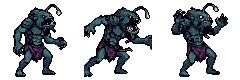
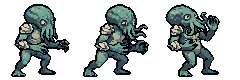
V3 R291: piscodemon monster_small approved (pass V redesign, with nits); retire.py --move-rig piscodemon

diff --git a/docs/ROSTER_LOG.md b/docs/ROSTER_LOG.md
@@ -678,7 +678,7 @@ number). Written as a literal into `budget.json` `attempts_before`, `pass R fix.
 pinned by `selftest_passv.py`. Pass V: 50 images, only the 7 redesigned ids and their `only_sheets`, at most 3 per
 sheet (fresh counts from 367).
 
-Images used: 1 of 50 (ledger guard: 368 - 367).
+Images used: 2 of 50 (ledger guard: 369 - 367).
 
 ### Pass V attempts (V3, generator, main checkout `roster`)
 
@@ -689,6 +689,7 @@ approval commit.
 | # | Sheet (seed) | n | Measured result | Decision |
 |---|---|---|---|---|
 | R290 | crazy_horse/monster_large (1234, key `8bc875977bdf6a8fbe2280ad`, `--retry`, pass-V attempt 1 of 3; archive 04c0539) | 1 | The plan 3.1 design: a gaunt ash-grey horse, a ridge of bone spines on neck and back, yellow-green glowing cracks (dim in the idle, flaring in the hurt), a long narrow skull-like head with one bright yellow-green eye spot, a black smoke mane and tail, thin legs, dark hooves; facing right in every cell. Heights 90 / 69 / 91 (large band 96-120; idle inside the -10 % tolerance), feet on row 122, 128 px cells, x 17-110 / 2-117 / 20-105, no border pixels, one piece per cell, binary alpha, 16 colours with the outline ink, `pose_diff` 0.94 / 0.58. `flat_edges` names the attack's upper jaw tip (x 117, y 96-98): the raw tip ends there with mid-grey ink, nothing sliced (checked against the raw). Attack = a low forward lunge with the long jaw open; hurt = head tossed up, cracks flaring. Sibling check vs `nightmare` (glossy black, blue flame mane and hooves) and the archived piebald `crazy_horse_v1`: clearly different creatures. Nits: the attack is a long low lunge (69 px, `height_ok` false); the hurt lifts the forelegs (a half rear, top row 32 vs idle 33, no height gain) instead of "all four hooves on the ground"; the small floating embers of the raw are dropped by the cutter (mane embers mostly gone) | **self-approved with nits**; `retire.py --move-rig crazy_horse` in the same commit |
+| R291 | piscodemon/monster_small (1234, key `0d4cd6b25d7cad960dbab2b9`, `--retry`, pass-V attempt 1 of 3; archive baf2a1f) | 1 | The plan 3.1 design: a squat hunched deep-sea horror, a bulbous ridged octopus-mantle head, a cluster of short thick face tentacles in place of a mouth, mottled sea-green / slate-blue skin, pale shell plates on the shoulders and forearms, a bare ribbed chest, webbed three-fingered claws held close, short bent legs on webbed feet; no robe; facing right in every cell. Heights 73 / 73 / 73 (small band 56-72, +1, `height_ok`), feet on row 76, 80 px cells, x 11-69 / 3-68 / 5-59, no border pixels, one piece per cell, binary alpha, 11 colours with the outline ink, `pose_diff` 0.32 / 0.64, `edges_ok`, grid mode (pitch 5.0). Attack = a lunge with both claws pulled in close and the tentacles lashing forward; hurt = head thrown back, tentacles curling, claws up beside the head. Sibling check vs `mindflayer` (tall, thin, lilac, black robe and collar) and the archived anglerfish demon `piscodemon_v1`: clearly different. Nits: **the raw's glowing yellow eyes come out cream-white with dark pupils** in the 11-colour cut (still a clear bright spot on the dark head; the pale yellow skin spots are lost too); in side view the six tentacles are not separately countable (4-5 visible strands); one dark plum pixel (115, 57, 107) at (108, 32) on the attack shoulder (not a key fringe: 211 from magenta) | **self-approved with nits**; `retire.py --move-rig piscodemon` in the same commit |
 
 ### V1 framework (framework owner, `v-fw`, 2026-11-16, 0 images)
 
